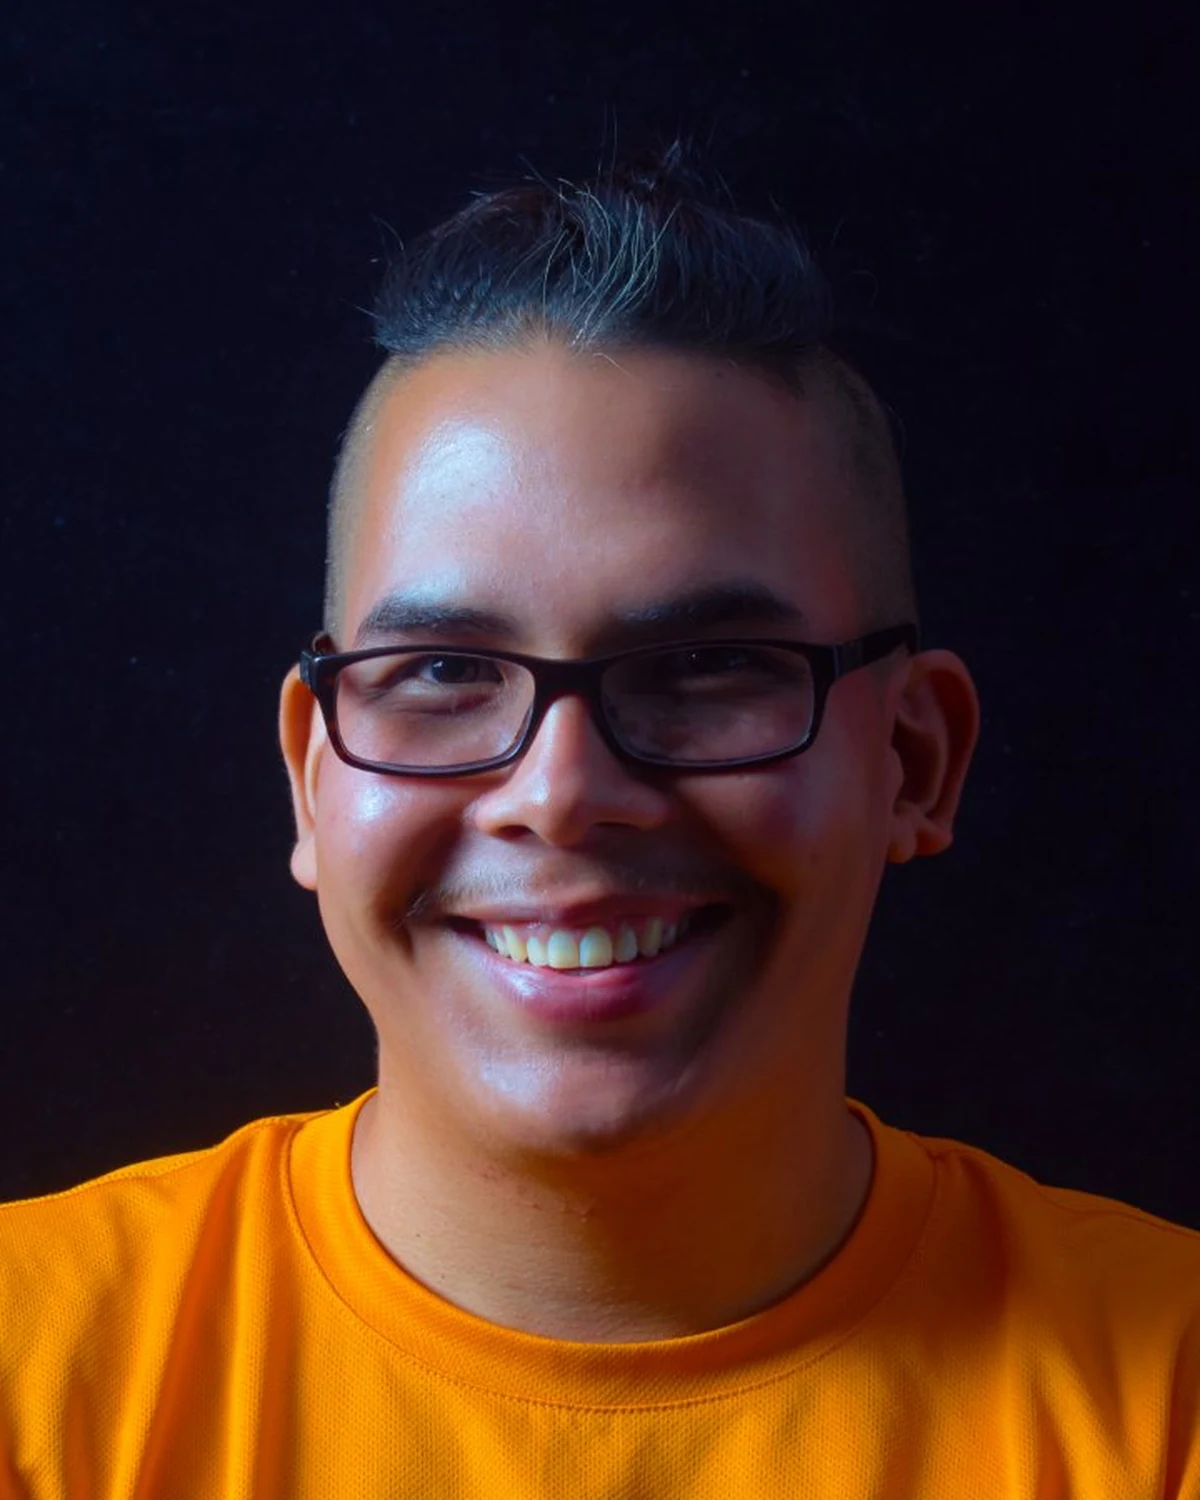
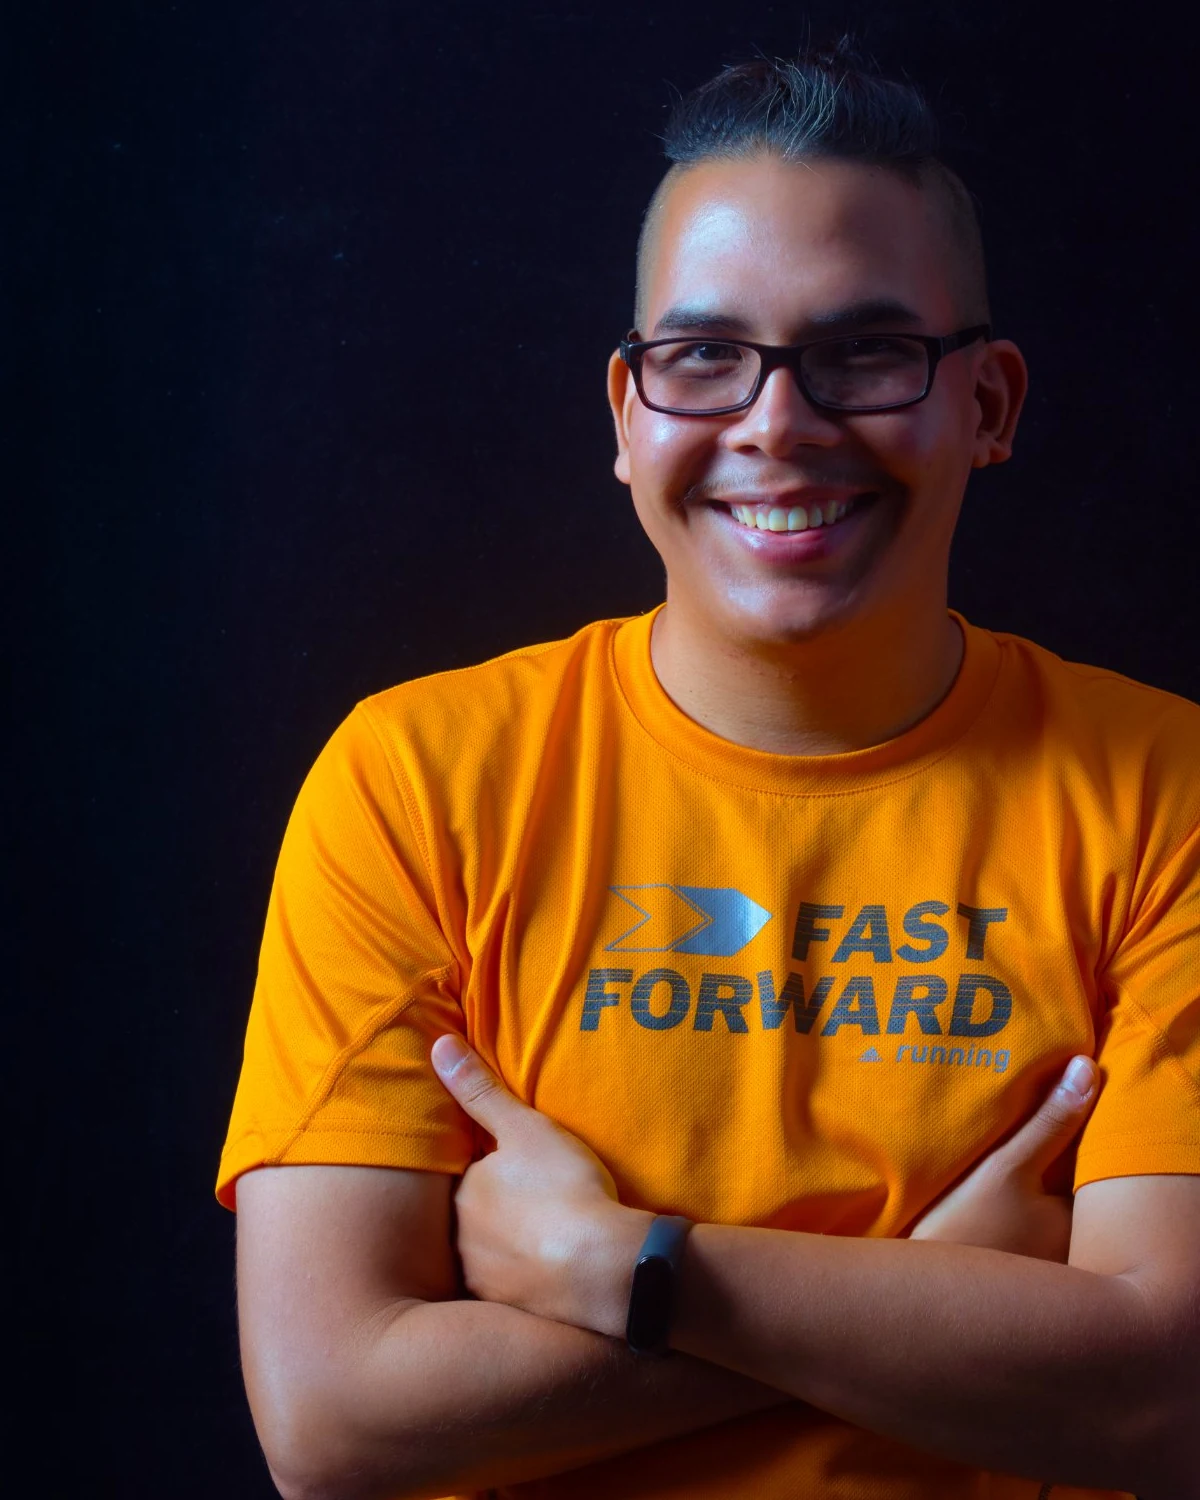
feat(about): use the wider portrait, above the text
The portrait is the fuller framing, head and crossed arms, and it now sits
above the heading in a single column at every width instead of beside the
text on desktop. The shirt's print stays visible, which is the author's
call: he is a runner, the photo is not a costume.

The layout is simpler for it, one flow instead of a two-column grid with
explicit row placement. The image is capped at 20rem because a 4:5
portrait across the full content column would be taller than the viewport
and push the heading off screen.

Alt text updated to describe the framing that actually ships.

Claude-Session: https://claude.ai/code/session_01QojRCRcjahJgr9gMpSxHJZ

diff --git a/src/app/[lang]/about/page.tsx b/src/app/[lang]/about/page.tsx
@@ -41,31 +41,24 @@ export default async function AboutPage({ params }: { params: Promise<{ lang: st
     return (
         <div className="page-sections">
             <JsonLd nodes={jsonLd} />
-            {/* Three grid items, heading / portrait / paragraphs, in that DOM order.
-                On mobile they stack that way, so the face arrives right after the
-                heading instead of below four paragraphs. On md+ the explicit row and
-                column placement puts heading and paragraphs in the left column with
-                the portrait spanning both rows on the right. The h1 stays first in
-                the DOM either way. */}
-            <div className="grid gap-6 md:grid-cols-[1fr_16rem] md:items-start md:gap-8">
-                <h1 className="text-3xl font-semibold tracking-tight md:col-start-1 md:row-start-1 md:text-4xl">
-                    {aboutContent.heading}
-                </h1>
+            {/* Portrait above the heading, one column at every width. It is capped
+                at 20rem because a 4:5 portrait across the full content width would
+                be taller than the viewport and push the heading off screen. */}
+            <div className="space-y-6">
                 <Image
                     src="/images/noelsajor-portrait.webp"
                     alt={aboutContent.portraitAlt}
                     width={1200}
                     height={1500}
                     priority
-                    className="h-auto w-40 rounded-2xl border border-white/10 md:col-start-2 md:row-span-2 md:row-start-1 md:w-full"
+                    className="h-auto w-full max-w-[20rem] rounded-2xl border border-white/10"
                 />
-                <div className="space-y-6 md:col-start-1 md:row-start-2">
-                    {aboutContent.paragraphs.map((paragraph) => (
-                        <p key={paragraph} className="max-w-2xl text-white/70">
-                            {paragraph}
-                        </p>
-                    ))}
-                </div>
+                <h1 className="text-3xl font-semibold tracking-tight md:text-4xl">{aboutContent.heading}</h1>
+                {aboutContent.paragraphs.map((paragraph) => (
+                    <p key={paragraph} className="max-w-2xl text-white/70">
+                        {paragraph}
+                    </p>
+                ))}
             </div>
 
             {/* The conversion path the home uses, reused: proof, social proof, next step.

diff --git a/src/content/es/static-pages.ts b/src/content/es/static-pages.ts
@@ -18,7 +18,7 @@ export const aboutContent = {
             'Diseñador multidisciplinario y especialista en producción front-end: diseño de producto, UI/UX, Shopify e implementación front-end.'
     },
     heading: 'Sobre mí',
-    portraitAlt: 'Retrato de Noelsajor, sonriendo, con camiseta naranja sobre fondo oscuro',
+    portraitAlt: 'Retrato de Noelsajor, sonriendo con los brazos cruzados, con camiseta naranja de running sobre fondo oscuro',
     paragraphs: [
         'Soy Noelsajor (Jose Leon Rojas), diseñador multidisciplinario y desarrollador front-end con más de una década de experiencia en branding, UI/UX, e-commerce, productos digitales e implementación web.',
         'Lo que empezó como diseño visual y de marca creció hacia UI/UX e implementación front-end. Trabajo en estrategia, diseño y producción en lugar de pasar el proyecto de un especialista a otro. Eso incluye Shopify: construyo tiendas a medida, temas y secciones Liquid reutilizables para marcas de e-commerce, además de trabajo de UI/UX y front-end fuera del e-commerce.',

diff --git a/src/content/en/static-pages.ts b/src/content/en/static-pages.ts
@@ -13,7 +13,7 @@ export const aboutContent = {
             'Multidisciplinary designer and front-end production specialist — product design, UI/UX, Shopify, and front-end implementation.'
     },
     heading: 'About',
-    portraitAlt: 'Portrait of Noelsajor, smiling, in an orange shirt against a dark background',
+    portraitAlt: 'Portrait of Noelsajor, smiling with his arms crossed, in an orange running shirt against a dark background',
     paragraphs: [
         "I’m Noelsajor (Jose Leon Rojas), a multidisciplinary designer and front-end developer with more than a decade of experience across branding, UI/UX, e-commerce, digital products, and web implementation.",
         'What started as visual and brand design work grew into UI/UX and front-end implementation — I work across strategy, design, and production instead of handing a project between separate specialists. That includes Shopify: I build custom storefronts, themes, and reusable Liquid sections for e-commerce brands, alongside UI/UX and front-end work outside of e-commerce entirely.',
